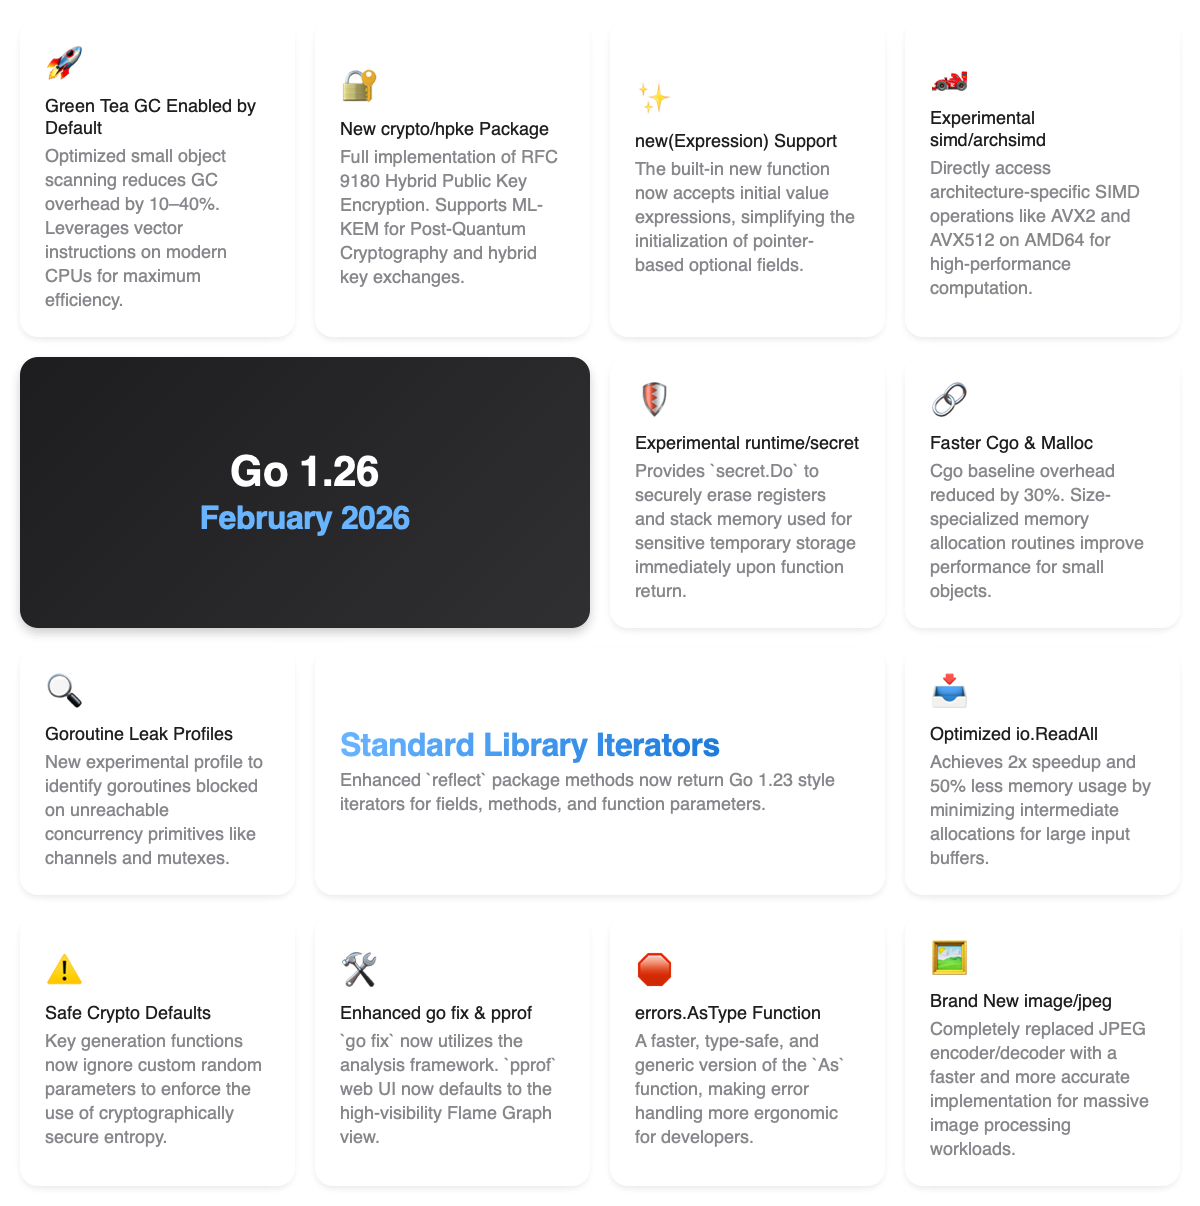
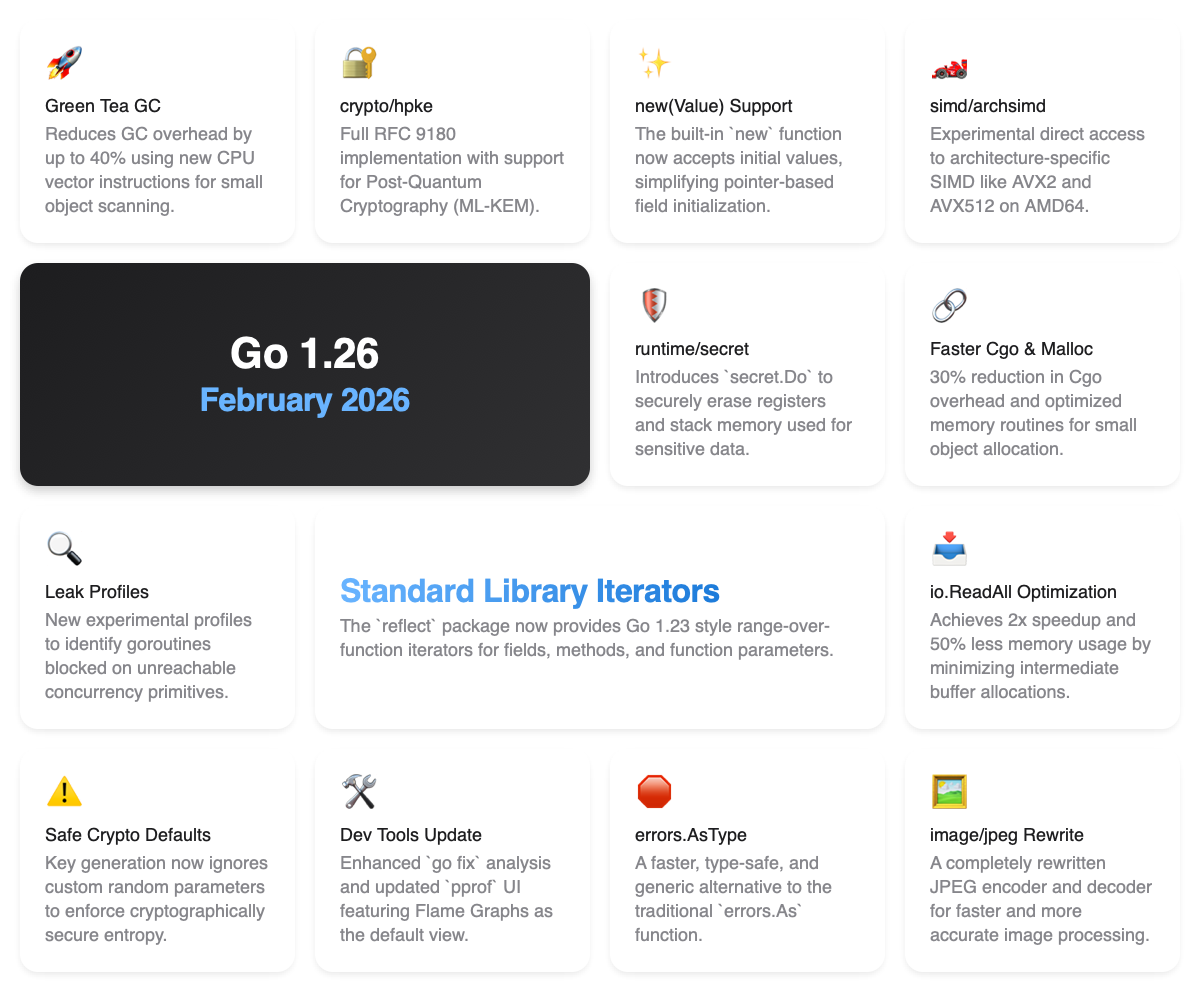
docs: Refine and shorten Go 1.26 overview feature descriptions and update the associated image.

diff --git a/go1.26/overview.html b/go1.26/overview.html
@@ -220,38 +220,37 @@
       <div class="specs-grid">
         <div class="spec-card">
           <div class="icon">🚀</div>
-          <div class="title">Green Tea GC Enabled by Default</div>
+          <div class="title">Green Tea GC</div>
           <div class="subtitle">
-            Optimized small object scanning reduces GC overhead by 10–40%.
-            Leverages vector instructions on modern CPUs for maximum efficiency.
+            Reduces GC overhead by up to 40% using new CPU vector instructions
+            for small object scanning.
           </div>
         </div>
 
         <div class="spec-card">
           <div class="icon">🔐</div>
-          <div class="title">New crypto/hpke Package</div>
+          <div class="title">crypto/hpke</div>
           <div class="subtitle">
-            Full implementation of RFC 9180 Hybrid Public Key Encryption.
-            Supports ML-KEM for Post-Quantum Cryptography and hybrid key
-            exchanges.
+            Full RFC 9180 implementation with support for Post-Quantum
+            Cryptography (ML-KEM).
           </div>
         </div>
 
         <div class="spec-card">
           <div class="icon">✨</div>
-          <div class="title">new(Expression) Support</div>
+          <div class="title">new(Value) Support</div>
           <div class="subtitle">
-            The built-in new function now accepts initial value expressions,
-            simplifying the initialization of pointer-based optional fields.
+            The built-in `new` function now accepts initial values, simplifying
+            pointer-based field initialization.
           </div>
         </div>
 
         <div class="spec-card">
           <div class="icon">🏎</div>
-          <div class="title">Experimental simd/archsimd</div>
+          <div class="title">simd/archsimd</div>
           <div class="subtitle">
-            Directly access architecture-specific SIMD operations like AVX2 and
-            AVX512 on AMD64 for high-performance computation.
+            Experimental direct access to architecture-specific SIMD like AVX2
+            and AVX512 on AMD64.
           </div>
         </div>
 
@@ -264,11 +263,10 @@
 
         <div class="spec-card">
           <div class="icon">🛡</div>
-          <div class="title">Experimental runtime/secret</div>
+          <div class="title">runtime/secret</div>
           <div class="subtitle">
-            Provides `secret.Do` to securely erase registers and stack memory
-            used for sensitive temporary storage immediately upon function
-            return.
+            Introduces `secret.Do` to securely erase registers and stack memory
+            used for sensitive data.
           </div>
         </div>
 
@@ -276,34 +274,34 @@
           <div class="icon">🔗</div>
           <div class="title">Faster Cgo & Malloc</div>
           <div class="subtitle">
-            Cgo baseline overhead reduced by 30%. Size-specialized memory
-            allocation routines improve performance for small objects.
+            30% reduction in Cgo overhead and optimized memory routines for
+            small object allocation.
           </div>
         </div>
 
         <div class="spec-card">
           <div class="icon">🔍</div>
-          <div class="title">Goroutine Leak Profiles</div>
+          <div class="title">Leak Profiles</div>
           <div class="subtitle">
-            New experimental profile to identify goroutines blocked on
-            unreachable concurrency primitives like channels and mutexes.
+            New experimental profiles to identify goroutines blocked on
+            unreachable concurrency primitives.
           </div>
         </div>
 
         <div class="spec-card wide">
           <div class="blue-text">Standard Library Iterators</div>
           <div class="subtitle">
-            Enhanced `reflect` package methods now return Go 1.23 style
+            The `reflect` package now provides Go 1.23 style range-over-function
             iterators for fields, methods, and function parameters.
           </div>
         </div>
 
         <div class="spec-card">
           <div class="icon">📥</div>
-          <div class="title">Optimized io.ReadAll</div>
+          <div class="title">io.ReadAll Optimization</div>
           <div class="subtitle">
             Achieves 2x speedup and 50% less memory usage by minimizing
-            intermediate allocations for large input buffers.
+            intermediate buffer allocations.
           </div>
         </div>
 
@@ -311,35 +309,35 @@
           <div class="icon">⚠</div>
           <div class="title">Safe Crypto Defaults</div>
           <div class="subtitle">
-            Key generation functions now ignore custom random parameters to
-            enforce the use of cryptographically secure entropy.
+            Key generation now ignores custom random parameters to enforce
+            cryptographically secure entropy.
           </div>
         </div>
 
         <div class="spec-card">
           <div class="icon">🛠</div>
-          <div class="title">Enhanced go fix & pprof</div>
+          <div class="title">Dev Tools Update</div>
           <div class="subtitle">
-            `go fix` now utilizes the analysis framework. `pprof` web UI now
-            defaults to the high-visibility Flame Graph view.
+            Enhanced `go fix` analysis and updated `pprof` UI featuring Flame
+            Graphs as the default view.
           </div>
         </div>
 
         <div class="spec-card">
           <div class="icon">🛑</div>
-          <div class="title">errors.AsType Function</div>
+          <div class="title">errors.AsType</div>
           <div class="subtitle">
-            A faster, type-safe, and generic version of the `As` function,
-            making error handling more ergonomic for developers.
+            A faster, type-safe, and generic alternative to the traditional
+            `errors.As` function.
           </div>
         </div>
 
         <div class="spec-card">
           <div class="icon">🖼</div>
-          <div class="title">Brand New image/jpeg</div>
+          <div class="title">image/jpeg Rewrite</div>
           <div class="subtitle">
-            Completely replaced JPEG encoder/decoder with a faster and more
-            accurate implementation for massive image processing workloads.
+            A completely rewritten JPEG encoder and decoder for faster and more
+            accurate image processing.
           </div>
         </div>
       </div>
